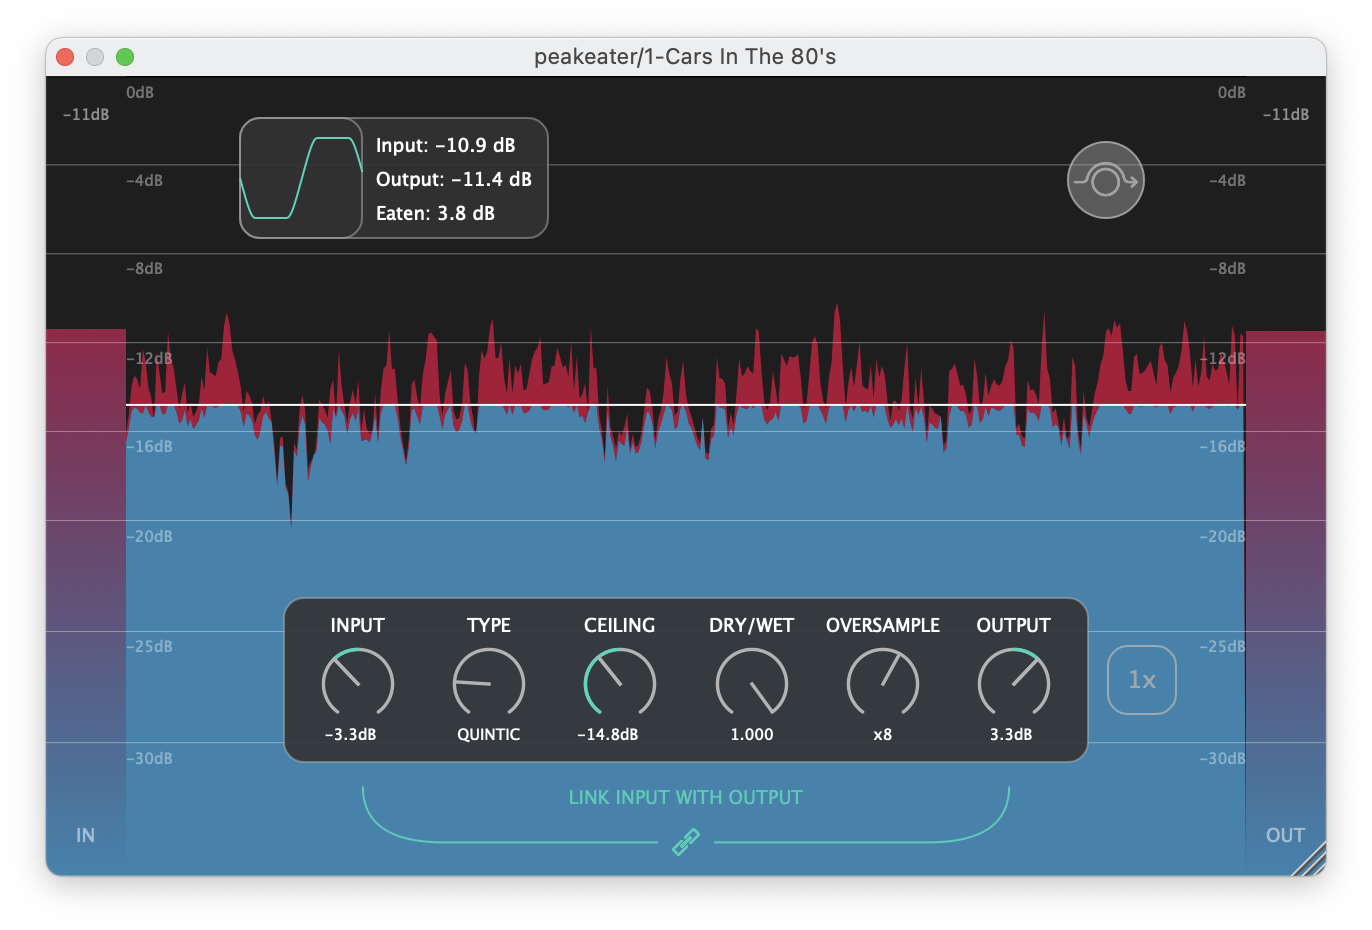
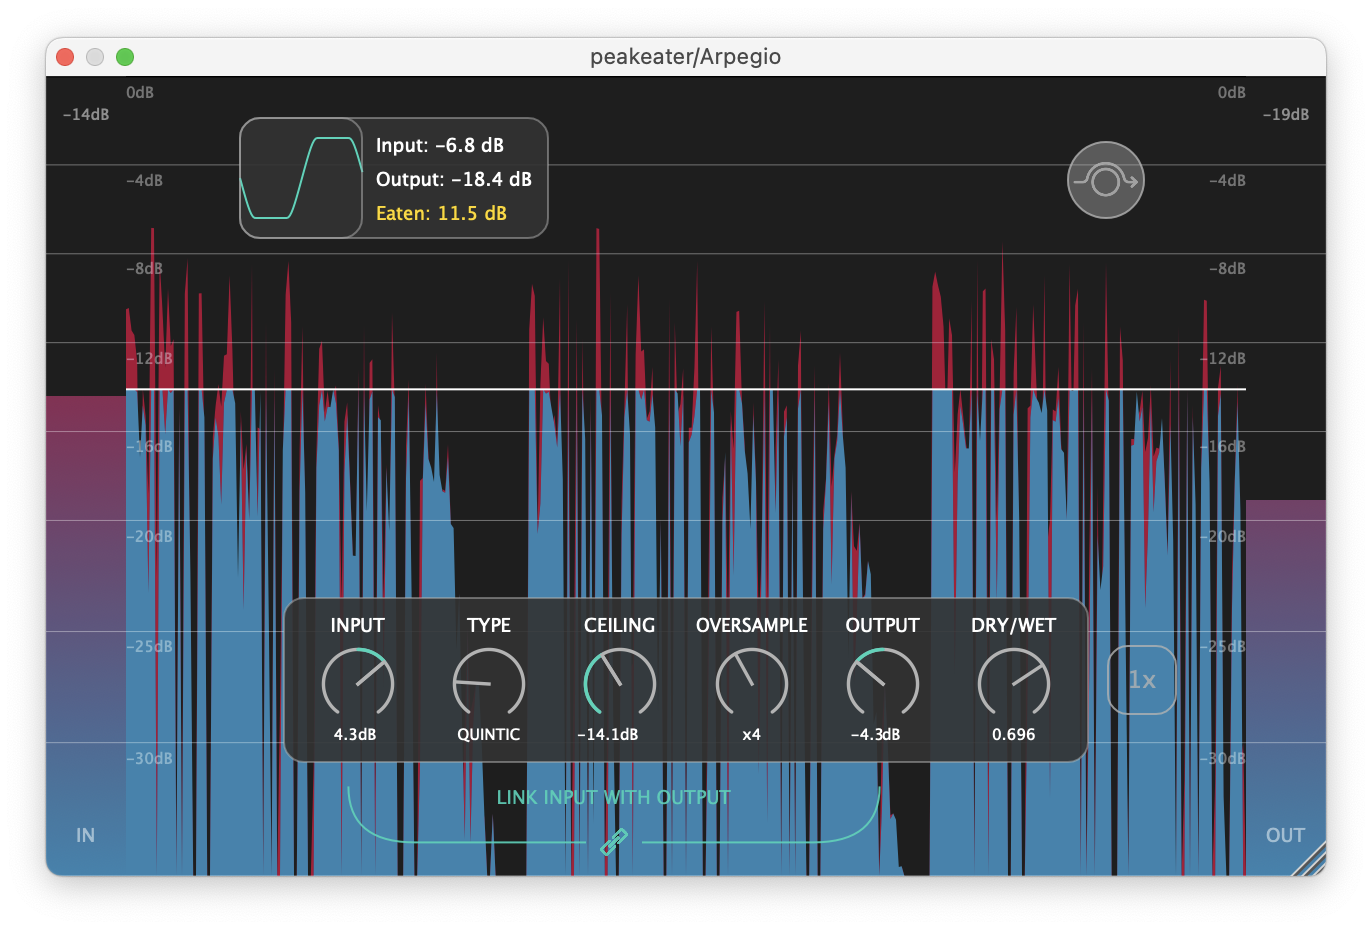
Fix position of dry/wet knob

diff --git a/source/editor/CentralPanel.cpp b/source/editor/CentralPanel.cpp
@@ -1,48 +1,47 @@
 #include "CentralPanel.h"
+
 #include "LevelMetersPack.h"
 
-namespace pe::gui
-{
-CentralPanel::CentralPanel (std::shared_ptr<juce::AudioProcessorValueTreeState> parameters,
-                            LevelMetersPack const& levelMetersPack,
-                            std::shared_ptr<Ticks> ticks)
-    : juce::Component(), mClipMeter (parameters, levelMetersPack, ticks), mControlPanel (parameters, levelMetersPack),
-      mLinkingPanel (parameters), mAnalyserComponent (parameters, levelMetersPack), mScalingSwitch (ticks)
-{
-    addAndMakeVisible (mClipMeter);
-    addAndMakeVisible (mControlPanel);
-    addAndMakeVisible (mLinkingPanel);
-    addAndMakeVisible (mAnalyserComponent);
-    addAndMakeVisible (mScalingSwitch);
+namespace pe::gui {
+CentralPanel::CentralPanel(std::shared_ptr<juce::AudioProcessorValueTreeState> parameters, LevelMetersPack const& levelMetersPack,
+                           std::shared_ptr<Ticks> ticks)
+    : juce::Component(),
+      mClipMeter(parameters, levelMetersPack, ticks),
+      mControlPanel(parameters, levelMetersPack),
+      mLinkingPanel(parameters),
+      mAnalyserComponent(parameters, levelMetersPack),
+      mScalingSwitch(ticks) {
+    addAndMakeVisible(mClipMeter);
+    addAndMakeVisible(mControlPanel);
+    addAndMakeVisible(mLinkingPanel);
+    addAndMakeVisible(mAnalyserComponent);
+    addAndMakeVisible(mScalingSwitch);
 }
 
-void CentralPanel::resized()
-{
+void CentralPanel::resized() {
     auto const localBounds = getLocalBounds();
 
-    mClipMeter.setBounds (localBounds);
+    mClipMeter.setBounds(localBounds);
 
     juce::Grid grid;
     using Track = juce::Grid::TrackInfo;
     using Fr = juce::Grid::Fr;
     using Item = juce::GridItem;
-    grid.templateRows = { Track (Fr (3)), Track (Fr (2)) };
-    grid.templateColumns = { Track (Fr (1)) };
-    grid.items = { Item (mControlPanel), Item (mLinkingPanel) };
-    auto const toRemoveFromTop = localBounds.proportionOfHeight (0.65f);
-    auto const toRemoveFromSides = localBounds.proportionOfWidth (0.14f);
-    grid.performLayout (localBounds.withTrimmedTop (toRemoveFromTop)
-                            .withTrimmedLeft (toRemoveFromSides)
-                            .withTrimmedRight (toRemoveFromSides));
+    grid.templateRows = {Track(Fr(3)), Track(Fr(2))};
+    grid.templateColumns = {Track(Fr(1))};
+    grid.items = {Item(mControlPanel), Item(mLinkingPanel).withMargin(Item::Margin(0, localBounds.proportionOfWidth(0.13f), 0, 0))};
+    auto const toRemoveFromTop = localBounds.proportionOfHeight(0.65f);
+    auto const toRemoveFromSides = localBounds.proportionOfWidth(0.14f);
+    grid.performLayout(localBounds.withTrimmedTop(toRemoveFromTop).withTrimmedLeft(toRemoveFromSides).withTrimmedRight(toRemoveFromSides));
 
-    mAnalyserComponent.setBounds (localBounds.withWidth (localBounds.proportionOfWidth (0.28f))
-                                      .withHeight (localBounds.proportionOfHeight (0.155f))
-                                      .withX (localBounds.proportionOfWidth (0.1f))
-                                      .withY (localBounds.proportionOfHeight (0.05f)));
+    mAnalyserComponent.setBounds(localBounds.withWidth(localBounds.proportionOfWidth(0.28f))
+                                     .withHeight(localBounds.proportionOfHeight(0.155f))
+                                     .withX(localBounds.proportionOfWidth(0.1f))
+                                     .withY(localBounds.proportionOfHeight(0.05f)));
 
-    mScalingSwitch.setBounds (localBounds.withWidth (localBounds.proportionOfWidth (0.065f))
-                                  .withHeight (localBounds.proportionOfWidth (0.065f))
-                                  .withX (localBounds.proportionOfWidth (0.875f))
-                                  .withY (localBounds.proportionOfHeight (0.71f)));
+    mScalingSwitch.setBounds(localBounds.withWidth(localBounds.proportionOfWidth(0.065f))
+                                 .withHeight(localBounds.proportionOfWidth(0.065f))
+                                 .withX(localBounds.proportionOfWidth(0.875f))
+                                 .withY(localBounds.proportionOfHeight(0.71f)));
 }
-} // namespace pe::gui
+}  // namespace pe::gui

diff --git a/source/editor/ControlPanel.cpp b/source/editor/ControlPanel.cpp
@@ -38,7 +38,7 @@ void ControlPanel::resized() {
     using Item = juce::GridItem;
     grid.templateRows = {Track(Fr(1))};
     grid.templateColumns = {Track(Fr(1)), Track(Fr(1)), Track(Fr(1)), Track(Fr(1)), Track(Fr(1)), Track(Fr(1))};
-    grid.items = {Item(inputGain), Item(clippingType), Item(ceiling), Item(dryWet), Item(oversample), Item(outputGain)};
+    grid.items = {Item(inputGain), Item(clippingType), Item(ceiling), Item(oversample), Item(outputGain), Item(dryWet)};
     auto bounds = getLocalBounds();
     bounds.removeFromTop(5);
     bounds.removeFromLeft(5);
